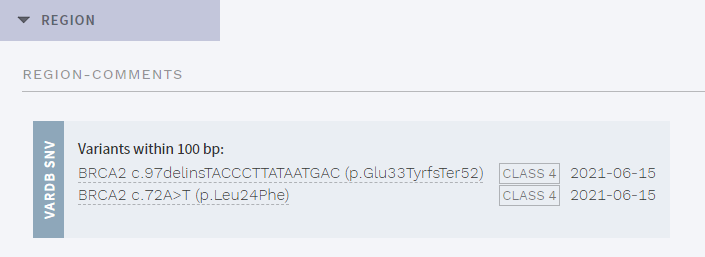
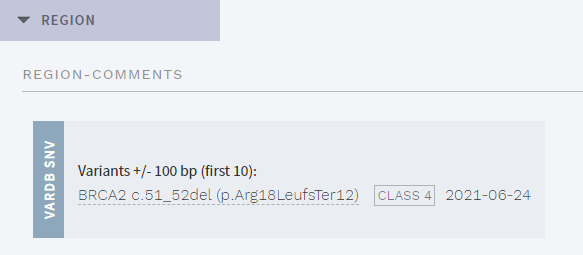
[docs] Release note and minor changes for !544, !545, !546

diff --git a/docs/releasenotes/README.md b/docs/releasenotes/README.md
@@ -62,7 +62,7 @@ The following changes must be made to `ella-config.yml` to use this version:
 ### All changes
 <!-- MR !405 -->
 - [Added support for configurable annotation](#support-for-configurable-annotation).
-<!-- MR !531 -->
+<!-- MR !531, !544, !546 -->
 - [Added new section REGION on CLASSIFICATION page, showing nearby SNV assessments](#new-region-section). 
 <!-- MR !535 -->
 - [Added support for track selection presets in VISUAL](#improvements-to-visual).
@@ -74,6 +74,8 @@ The following changes must be made to `ella-config.yml` to use this version:
 - [Added mouse wheel zoom and possibility to recenter on selected variant in VISUAL](#improvements-to-visual).
 <!-- MR !525 -->
 - Added support for `bigWig` and `cram` track file formats in VISUAL.
+<!-- MR !545 -->
+- Fixed a bug causing inability to update REPORT.
 <!-- 
 No further release notes necessary, but adding here for reference: 
 MR !534 Add typing stubs

diff --git a/docs/manual/evidence-sections.md b/docs/manual/evidence-sections.md
@@ -75,6 +75,8 @@ Variants marked as `TECHNICAL` or `NOT RELEVANT` can, depending on the your conf
 
 This section displays other, previously classified variants within a predefined, genomic distance from the selected variant. Click on the link to open the other variant evaluation in a new tab. 
 
+If there are more than a preset max number of variants (e.g., 10), only the closest variants are shown. 
+
 ## Frequency
 
 This section displays population frequencies reported in external or internal datasets (if any). Note that variants with a population frequency exceeding the threshold for ACMG criterion BA1 have already been [filtered out](/manual/top-bar.html#excluded-variants).
